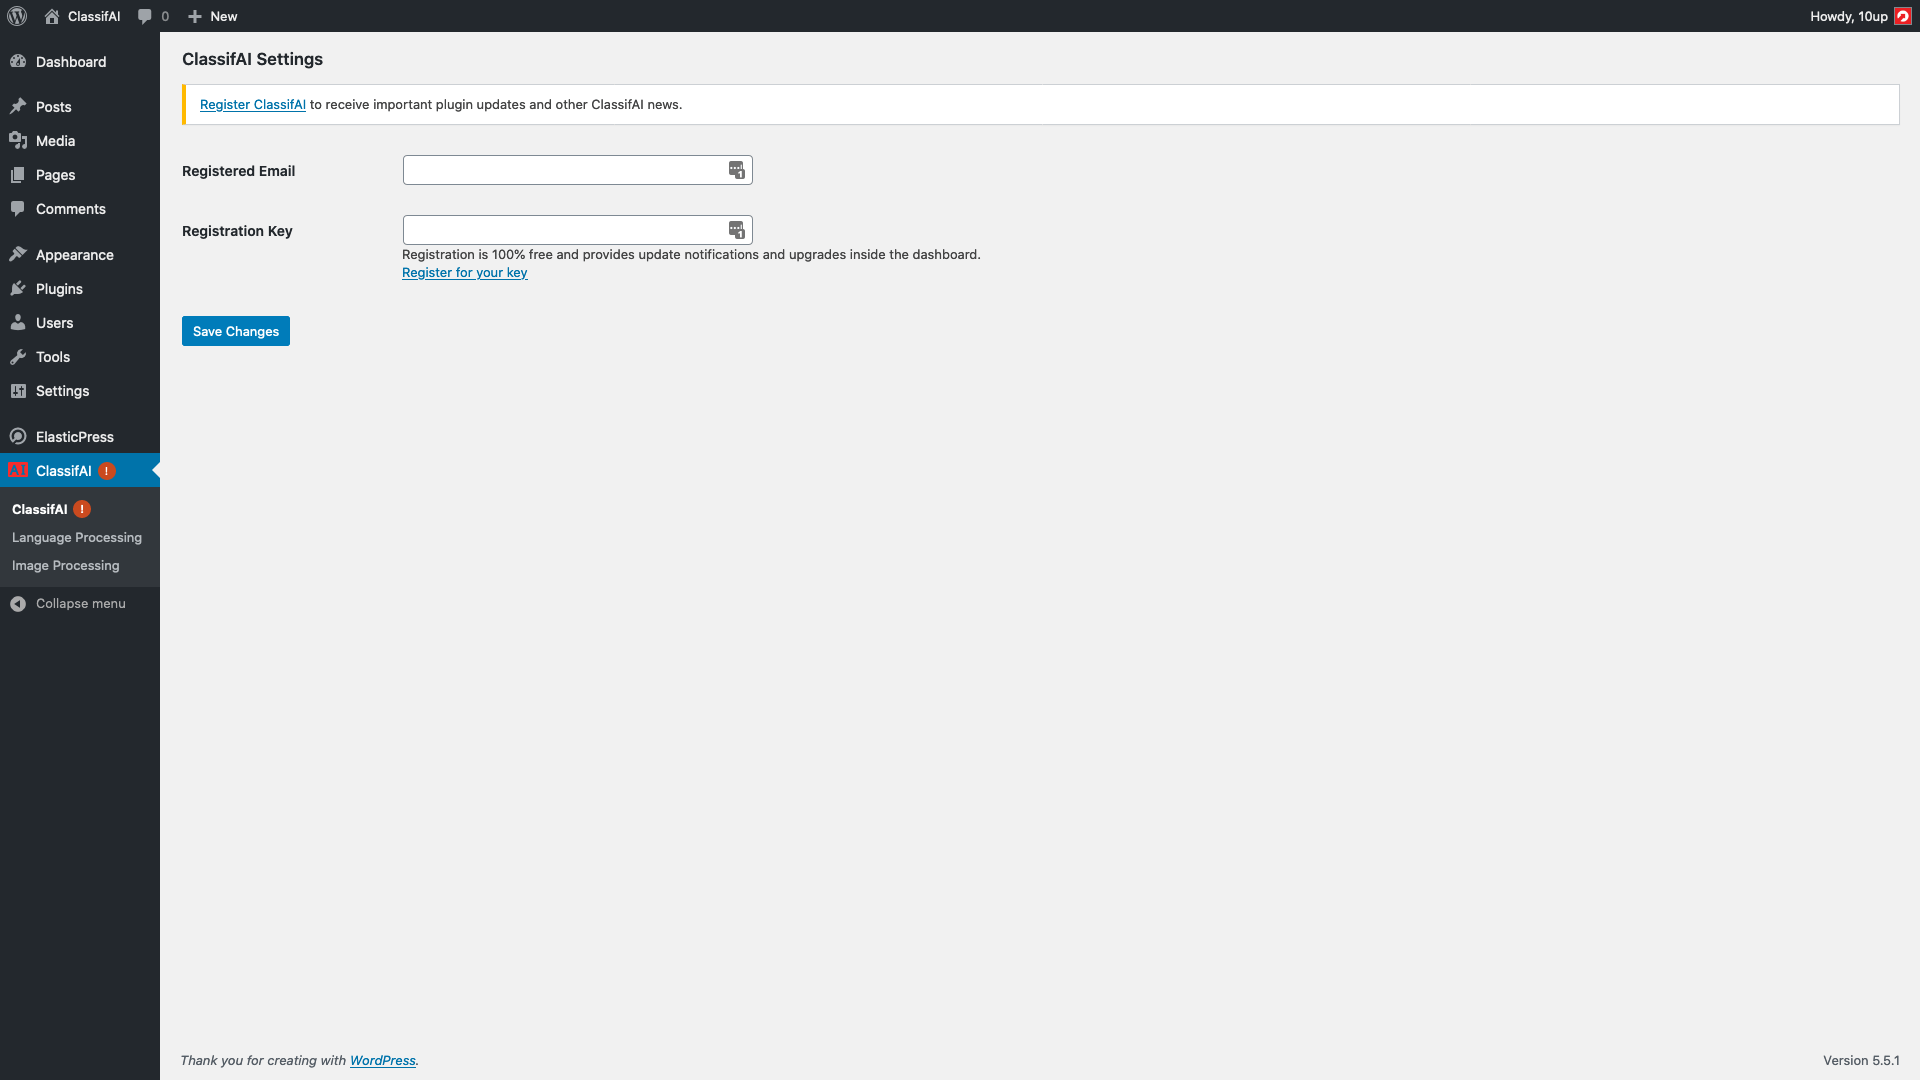
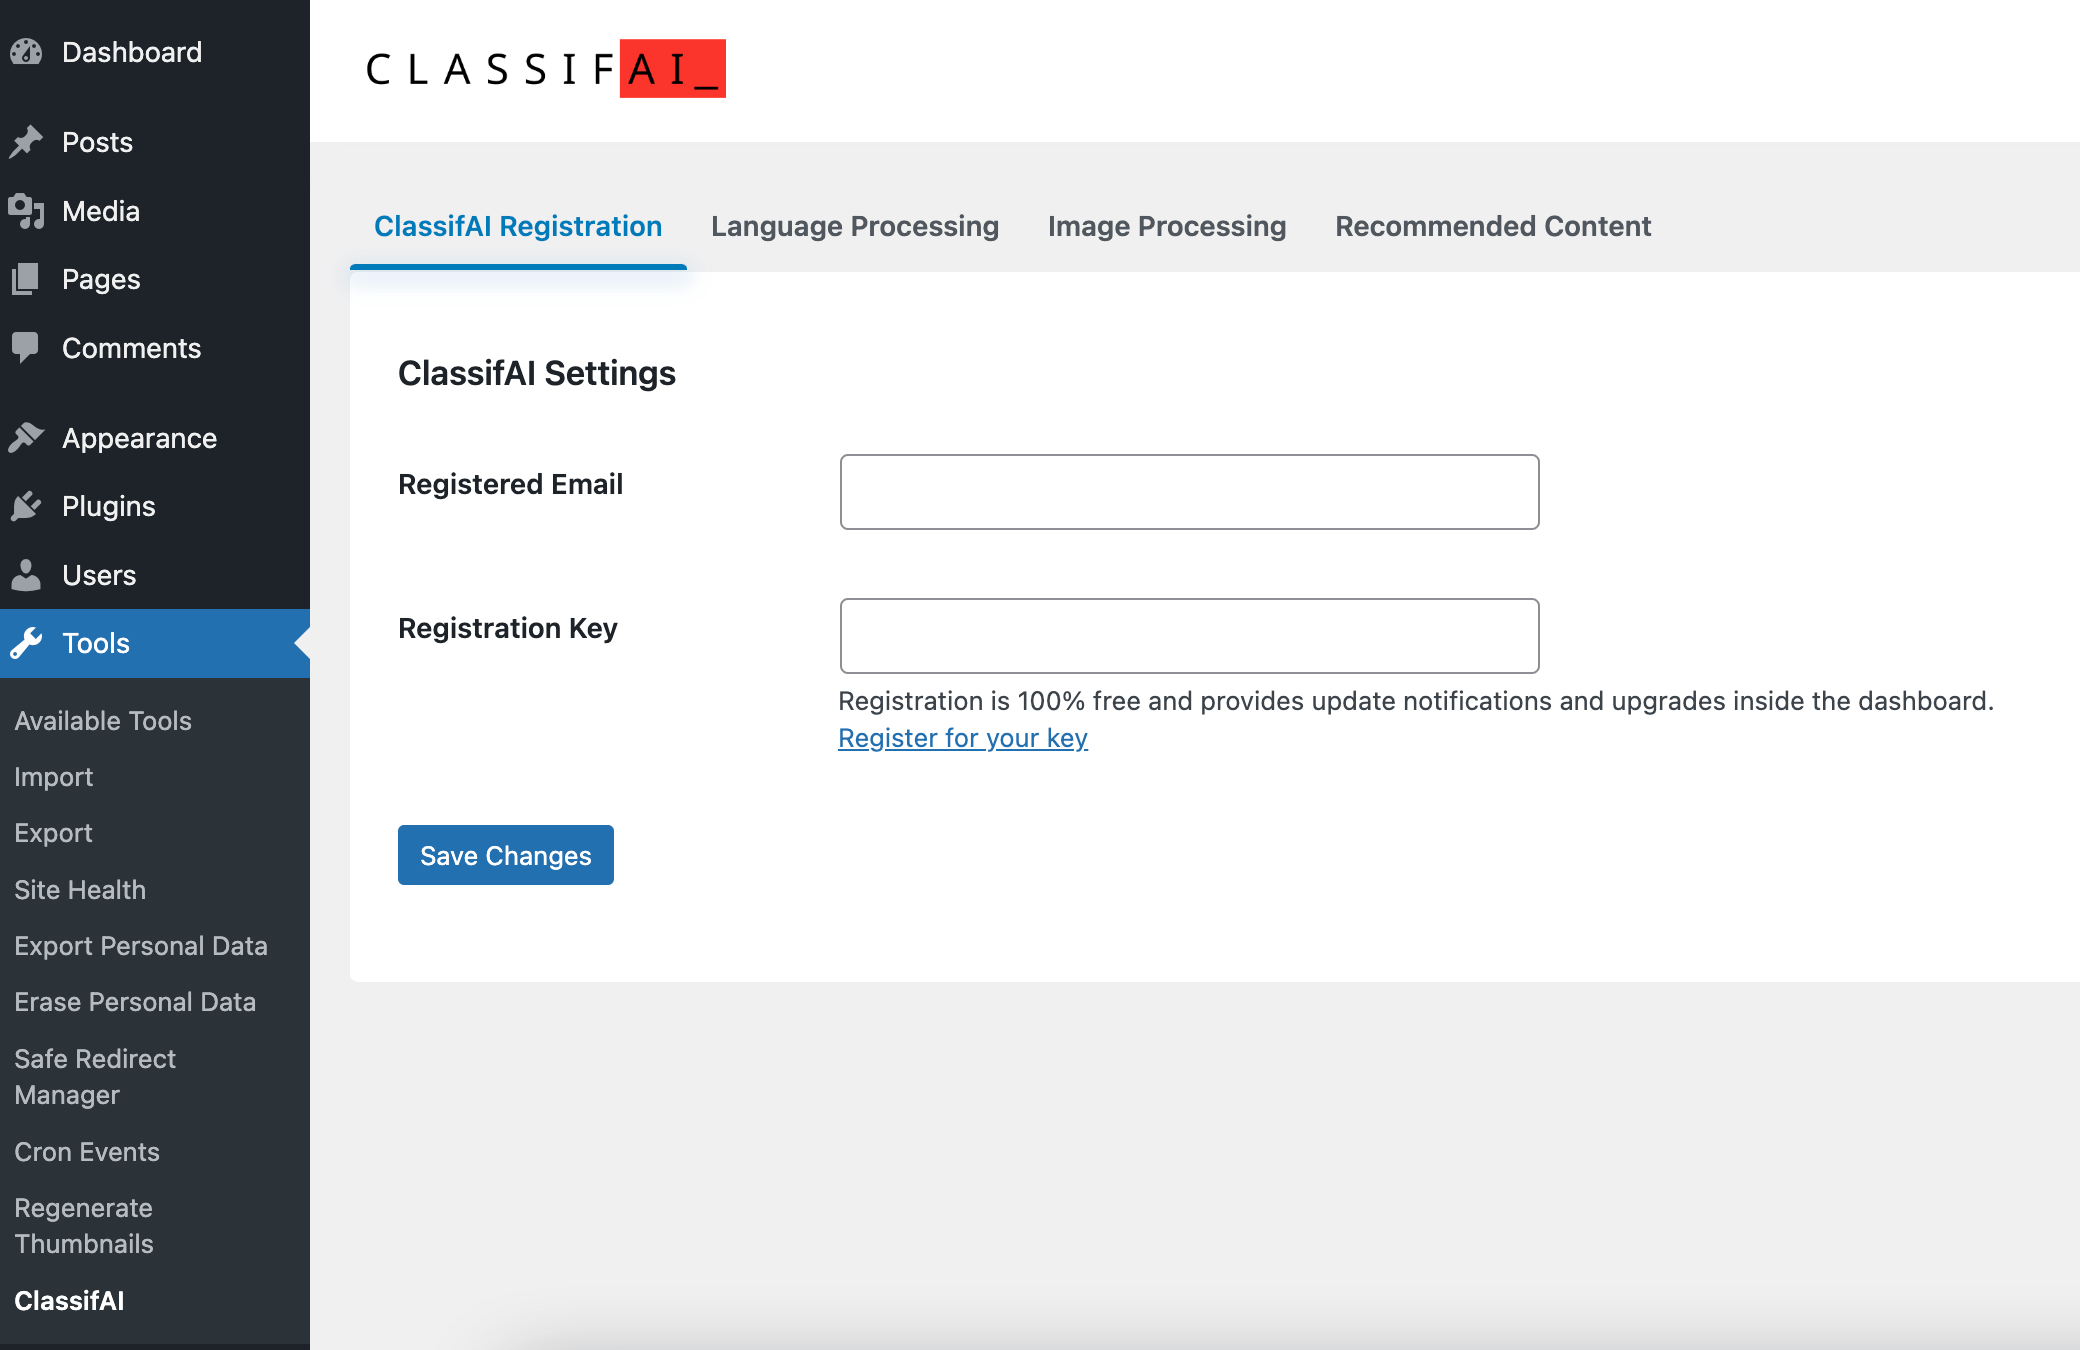
Update docs

diff --git a/includes/Classifai/Providers/OpenAI/ChatGPT.php b/includes/Classifai/Providers/OpenAI/ChatGPT.php
@@ -44,7 +44,7 @@ class ChatGPT extends Provider {
 	 */
 	public function __construct( $service ) {
 		parent::__construct(
-			'OpenAI',
+			'OpenAI ChatGPT',
 			'ChatGPT',
 			'openai_chatgpt',
 			$service

diff --git a/README.md b/README.md
@@ -13,9 +13,10 @@
 * [Installation](#installation)
 * [Register ClassifAI account](#register-classifai-account)
 * [Set Up NLU Language Processing](#set-up-language-processing-via-ibm-watson)
-* [Set Up ChatGPT Language Processing](#set-up-language-processing-via-openai)
+* [Set Up OpenAI ChatGPT Language Processing](#set-up-language-processing-via-openai-chatgpt)
+* [Set Up OpenAI Whisper Language Processing](#set-up-language-processing-via-openai-whisper)
 * [Set Up Computer Vision Image Processing](#set-up-image-processing-via-microsoft-azure)
-* [Set Up DALL·E Image Processing](#set-up-image-processing-via-openai)
+* [Set Up OpenAI DALL·E Image Processing](#set-up-image-processing-via-openai)
 * [Set Up Recommended Content](#set-up-recommended-content-via-microsoft-azure-personalizer)
 * [WP CLI Commands](#wp-cli-commands)
 * [FAQs](#frequently-asked-questions)
@@ -27,6 +28,7 @@
 
 * Automatically generate a summary of your content and store that as an excerpt using [OpenAI's ChatGPT](https://platform.openai.com/docs/guides/chat)
 * Generate new images on demand to use in-content or as a featured image using [OpenAI's DALL·E](https://platform.openai.com/docs/guides/images)
+* Automatically generate transcripts of your audio files using [OpenAI's Whisper](https://platform.openai.com/docs/guides/speech-to-text)
 * Classify your content using [IBM Watson's Natural Language Understanding API](https://www.ibm.com/watson/services/natural-language-understanding/) and [Microsoft Azure's Computer Vision API](https://azure.microsoft.com/en-us/services/cognitive-services/computer-vision/)
 * Supports Watson's [Categories](https://cloud.ibm.com/docs/natural-language-understanding?topic=natural-language-understanding-about#categories), [Keywords](https://cloud.ibm.com/docs/natural-language-understanding?topic=natural-language-understanding-about#keywords), [Concepts](https://cloud.ibm.com/docs/natural-language-understanding?topic=natural-language-understanding-about#concepts) & [Entities](https://cloud.ibm.com/docs/natural-language-understanding?topic=natural-language-understanding-about#entities) and Azure's [Describe Image](https://westus.dev.cognitive.microsoft.com/docs/services/5adf991815e1060e6355ad44/operations/56f91f2e778daf14a499e1fe)
 * Automatically classify content and images on save
@@ -36,9 +38,9 @@
 * BETA: Recommend content based on overall site traffic via [Azure Personalizer](https://azure.microsoft.com/en-us/services/cognitive-services/personalizer/) (note that we're gathering feedback on this feature and may significantly iterate depending on community input)
 * Bulk classify content with [WP-CLI](https://wp-cli.org/)
 
-| Language Processing - Tagging | Recommended Content | Excerpt Generation |
-| :-: | :-: | :-: |
-| ![Screenshot of ClassifAI post tagging](assets/img/screenshot-1.png "Example of a Block Editor post with Watson Categories, Keywords, Concepts, and Entities.") | ![Screenshot of ClassifAI recommended content](assets/img/screenshot-2.png "Example of a Recommended Content Block with Azure Personalizer.") | ![Screenshot of ClassifAI excerpt generation](assets/img/screenshot-7.png "Example of automatic excerpt generation with OpenAI.") |
+| Language Processing - Tagging | Recommended Content | Excerpt Generation | Audio Transcripts |
+| :-: | :-: | :-: | :-: |
+| ![Screenshot of ClassifAI post tagging](assets/img/screenshot-1.png "Example of a Block Editor post with Watson Categories, Keywords, Concepts, and Entities.") | ![Screenshot of ClassifAI recommended content](assets/img/screenshot-2.png "Example of a Recommended Content Block with Azure Personalizer.") | ![Screenshot of ClassifAI excerpt generation](assets/img/screenshot-7.png "Example of automatic excerpt generation with OpenAI.") | ![Screenshot of ClassifAI audio transcript generation](assets/img/screenshot-9.png "Example of automatic audio transcript generation with OpenAI.") |
 
 | Image Processing - Alt Text | Image Processing - Smart Cropping | Image Processing - Tagging | Image Processing - Generate Images |
 | :-: | :-: | :-: | :-: |
@@ -49,7 +51,7 @@
 * PHP 7.4+
 * [WordPress](http://wordpress.org) 5.7+
 * To utilize the NLU Language Processing functionality, you will need an active [IBM Watson](https://cloud.ibm.com/registration) account.
-* To utilize the ChatGPT Language Processing functionality or DALL·E Image Processing functionality, you will need an active [OpenAI](https://platform.openai.com/signup) account.
+* To utilize the ChatGPT or Whisper Language Processing functionality or DALL·E Image Processing functionality, you will need an active [OpenAI](https://platform.openai.com/signup) account.
 * To utilize the Computer Vision Image Processing functionality, you will need an active [Microsoft Azure](https://signup.azure.com/signup) account.
 
 ## Pricing
@@ -58,7 +60,7 @@ Note that there is no cost to using ClassifAI itself. Both IBM Watson and Micros
 
 The service that powers ClassifAI's NLU Language Processing, IBM Watson's Natural Language Understanding ("NLU"), has a ["lite" pricing tier](https://www.ibm.com/cloud/watson-natural-language-understanding/pricing) that offers 30,000 free NLU items per month.
 
-The service that powers ClassifAI's ChatGPT Language Processing and DALL·E Image Processing, OpenAI, has a limited free trial and then requires a [pay per usage](https://openai.com/pricing) plan.
+The service that powers ClassifAI's ChatGPT and Whisper Language Processing and DALL·E Image Processing, OpenAI, has a limited free trial and then requires a [pay per usage](https://openai.com/pricing) plan.
 
 The service that powers ClassifAI's Computer Vision Image Processing, Microsoft Azure, has a ["free" pricing tier](https://azure.microsoft.com/en-us/pricing/details/cognitive-services/computer-vision/) that offers 20 transactions per minute and 5,000 transactions per month.
 
@@ -134,7 +136,7 @@ ClassifAI is a sophisticated solution that we want organizations of all shapes a
 - Check for an email from `ClassifAI Team` which contains the registration key.
 - Note that the email will be sent from `opensource@10up.com`, so please whitelist this email address if needed.
 
-### 2. Configure ClassifAI Registration Key under ClassifAI > ClassifAI
+### 2. Configure ClassifAI Registration Key under Tools > ClassifAI
 
 - In the `Registered Email` field, enter the email you used for registration.
 - In the `Registration Key` field, enter the registration key from the email in step 1 above.
@@ -150,7 +152,7 @@ ClassifAI is a sophisticated solution that we want organizations of all shapes a
 - Log into your account (accepting the privacy policy) and create a new [*Natural Language Understanding*](https://cloud.ibm.com/catalog/services/natural-language-understanding) Resource if you do not already have one. It may take a minute for your account to fully populate with the default resource group to use.
 - Click `Manage` in the left hand menu, then `Show credentials` on the Manage page to view the credentials for this resource.
 
-### 2. Configure IBM Watson API Keys under ClassifAI > Language Processing > IBM Watson
+### 2. Configure IBM Watson API Keys under Tools > ClassifAI > Language Processing > IBM Watson
 
 **The credentials screen will show either an API key or a username/password combination.**
 
@@ -178,7 +180,7 @@ For more information, see https://cloud.ibm.com/docs/watson?topic=watson-endpoin
 
 ### 4. Save a Post/Page/CPT or run WP CLI command to batch classify your content
 
-## Set Up Language Processing (via OpenAI)
+## Set Up Language Processing (via OpenAI ChatGPT)
 
 ### 1. Sign up for OpenAI
 
@@ -187,7 +189,7 @@ For more information, see https://cloud.ibm.com/docs/watson?topic=watson-endpoin
 * Log into your account and go to the [API key page](https://platform.openai.com/account/api-keys).
 * Click `Create new secret key` and copy the key that is shown.
 
-### 2. Configure OpenAI API Keys under ClassifAI > Language Processing > OpenAI
+### 2. Configure OpenAI API Keys under Tools > ClassifAI > Language Processing > OpenAI ChatGPT
 
 * Enter your API Key copied from the above step into the `API Key` field.
 
@@ -202,6 +204,34 @@ For more information, see https://cloud.ibm.com/docs/watson?topic=watson-endpoin
 * Edit (or create) an item that supports excerpts. Note: only the block editor is supported.
 * Ensure this item has content saved.
 * Open the Excerpt panel in the sidebar and click on `Generate Excerpt`
+
+## Set Up Language Processing (via OpenAI Whisper)
+
+Note that [OpenAI](https://platform.openai.com/docs/guides/speech-to-text) can create a transcript for audio files that meet the following requirements:
+* The file must be presented in mp3, mp4, mpeg, mpga, m4a, wav, or webm format
+* The file size must be less than 25 megabytes (MB)
+
+### 1. Sign up for OpenAI
+
+* [Sign up for an OpenAI account](https://platform.openai.com/signup) or sign into your existing one.
+* If creating a new account, complete the verification process (requires confirming your email and phone number).
+* Log into your account and go to the [API key page](https://platform.openai.com/account/api-keys).
+* Click `Create new secret key` and copy the key that is shown.
+
+### 2. Configure OpenAI API Keys under Tools > ClassifAI > Language Processing > OpenAI Whisper
+
+* Enter your API Key copied from the above step into the `API Key` field.
+
+### 3. Enable specific features
+
+* Choose to enable the ability to automatically generate transcripts from supported audio files.
+* Choose which user roles have access to this ability.
+* Save changes and ensure a success message is shown. An error will show if API authentication fails.
+
+### 4. Upload a new audio file
+
+* Upload a new audio file.
+* Check to make sure the transcript was stored in the Description field.
 
 ## Set Up Image Processing (via Microsoft Azure)
 
@@ -218,7 +248,7 @@ Note that [Computer Vision](https://docs.microsoft.com/en-us/azure/cognitive-ser
 - Click `Keys and Endpoint` in the left hand Resource Management menu to view the `Endpoint` URL for this resource.
 - Click the copy icon next to `KEY 1` to copy the API Key credential for this resource.
 
-### 2. Configure Microsoft Azure API and Key under ClassifAI > Image Processing
+### 2. Configure Microsoft Azure API and Key under Tools > ClassifAI > Image Processing
 
 - In the `Endpoint URL` field, enter your `API endpoint`.
 - In the `API Key` field, enter your `KEY 1`.
@@ -239,7 +269,7 @@ Note that [Computer Vision](https://docs.microsoft.com/en-us/azure/cognitive-ser
 * Log into your account and go to the [API key page](https://platform.openai.com/account/api-keys).
 * Click `Create new secret key` and copy the key that is shown.
 
-### 2. Configure OpenAI API Keys under ClassifAI > Image Processing > OpenAI
+### 2. Configure OpenAI API Keys under Tools > ClassifAI > Image Processing > OpenAI
 
 * Enter your API Key copied from the above step into the `API Key` field.
 
@@ -274,7 +304,7 @@ Note that [Personalizer](https://azure.microsoft.com/en-us/services/cognitive-se
 
 For more information, see https://docs.microsoft.com/en-us/azure/cognitive-services/personalizer/how-to-create-resource
 
-### 2. Configure Microsoft Azure API and Key under ClassifAI > Recommended Content
+### 2. Configure Microsoft Azure API and Key under Tools > ClassifAI > Recommended Content
 
 - In the `Endpoint URL` field, enter your `Endpoint` URL from Step 1 above.
 - In the `API Key` field, enter your `KEY 1` from Step 1 above.
